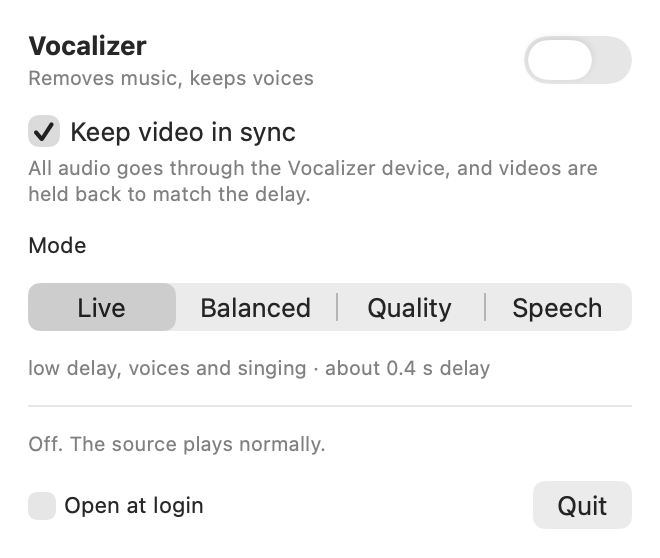
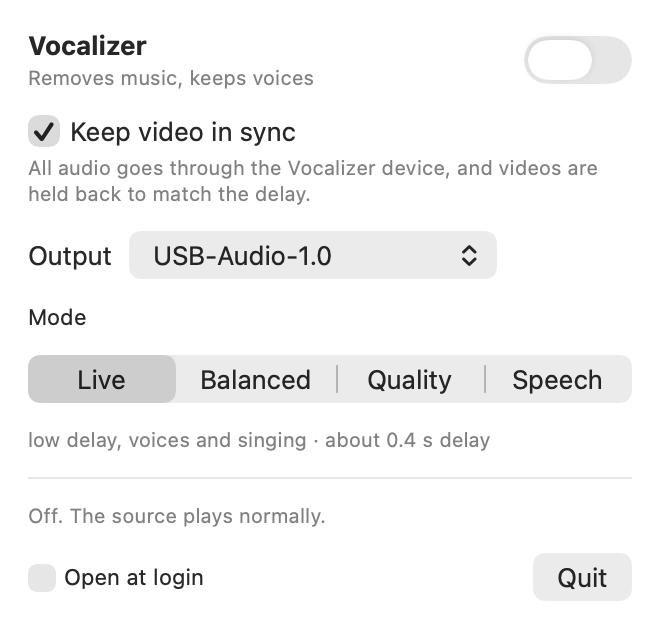
Follow headphones: new outputs take over, unplug goes back, device shows the real output
- the Vocalizer device's name is set by the app ('vnam' property), e.g. 'Vocalizer (External Headphones)',
  so Control Center shows where the sound really goes
- plugging in an output (headphones, AirPods, USB) moves the sound to it; unplugging returns to the
  previous output still connected
- Output picker in the menu

diff --git a/Sources/VocalizerMac/AppModel.swift b/Sources/VocalizerMac/AppModel.swift
@@ -205,13 +205,63 @@ final class AppModel: ObservableObject {
         engine.outputGain = (hw ? 1 : powf(vol, 3)) * (muted && !hwMute ? 0 : 1)
     }
 
+    /// Output devices seen so far (to tell "plugged in" from "unplugged"), and where we played before.
+    private var knownOutputUIDs = Set(AudioProcesses.realOutputs().map(\.uid))
+    private var outputHistory: [String] = []
+
+    /// Plugging in headphones / connecting AirPods moves the sound to them, like macOS does; unplugging
+    /// goes back to the previous output that is still there.
     private func devicesChanged() {
-        guard enabled, syncActive, let uid = activeRealUID else { return }
-        if AudioProcesses.device(uid: uid) == nil {
-            NSLog("Vocalizer: output \(uid) disappeared, moving to the next one")
-            realOutputUID = nil
+        let outputs = AudioProcesses.realOutputs()
+        let current = Set(outputs.map(\.uid))
+        let added = outputs.filter { !knownOutputUIDs.contains($0.uid) }
+        knownOutputUIDs = current
+        refreshOutputs()
+        guard enabled, syncActive else { return }
+        if let new = added.last {
+            NSLog("Vocalizer: \(new.name) connected, playing there")
+            choose(output: new.uid)
+        } else if let uid = activeRealUID, !current.contains(uid) {
+            while let previous = outputHistory.popLast() {
+                if current.contains(previous) { realOutputUID = previous; break }
+            }
+            if let uid = realOutputUID, !current.contains(uid) { realOutputUID = nil }
+            NSLog("Vocalizer: output \(uid) disappeared, back to \(realOutputUID ?? "default")")
             apply()
         }
+    }
+
+    // MARK: output picker
+
+    @Published private(set) var outputs: [OutputChoice] = []
+    @Published private(set) var currentOutputUID: String?
+    struct OutputChoice: Identifiable, Hashable { let id: String; let name: String }
+
+    func refreshOutputs() {
+        let list = AudioProcesses.realOutputs().map { OutputChoice(id: $0.uid, name: $0.name) }
+        if list != outputs { outputs = list }
+        if syncActive && enabled {
+            currentOutputUID = activeRealUID
+        } else if let d = try? AudioProcesses.defaultOutputDevice(), let uid = AudioProcesses.uid(of: d),
+                  !uid.lowercased().hasPrefix("vocalizer") {
+            currentOutputUID = uid
+        } else {
+            currentOutputUID = realOutputUID
+        }
+    }
+
+    /// Plays on this output (sync: our real output; otherwise the system default).
+    func choose(output uid: String) {
+        guard let dev = AudioProcesses.device(uid: uid) else { return }
+        if enabled && syncActive {
+            guard uid != activeRealUID else { return }
+            realOutputUID = uid
+            apply()
+        } else {
+            setDefaultOutput(dev)
+            realOutputUID = uid
+        }
+        currentOutputUID = uid
     }
 
     private func installSignalHandlers() {
@@ -242,11 +292,13 @@ final class AppModel: ObservableObject {
         let vocalizer = AudioProcesses.vocalizerDevice()
         if let d = try? AudioProcesses.defaultOutputDevice(), d != vocalizer { return d }
         if let uid = realOutputUID, let d = AudioProcesses.device(uid: uid) { return d }
-        return AudioProcesses.devices().first { $0 != vocalizer && AudioProcesses.hasOutput($0)
-            && !(AudioProcesses.uid(of: $0) ?? "").lowercased().hasPrefix("vocalizer") }
+        let outputs = AudioProcesses.realOutputs()
+        // Prefer the Mac's own speakers/headphones over anything else.
+        return (outputs.first { $0.uid.contains("BuiltIn") } ?? outputs.first)?.id
     }
 
     private func restoreRealOutput() {
+        AudioProcesses.setVocalizerName("Vocalizer")
         guard let v = AudioProcesses.vocalizerDevice(), (try? AudioProcesses.defaultOutputDevice()) == v,
               let real = realOutput() else { return }
         setDefaultOutput(real)
@@ -296,9 +348,11 @@ final class AppModel: ObservableObject {
 
     private func apply() {
         driverInstalled = AudioProcesses.vocalizerDevice() != nil
+        defer { refreshOutputs() }
         guard enabled else {
             engine.stop()
             restoreRealOutput()
+            AudioProcesses.setVocalizerName("Vocalizer")
             reportedLatencyMs = 0
             status = ready ? "Off" : status
             stats = engine.stats
@@ -311,7 +365,13 @@ final class AppModel: ObservableObject {
             if syncActive {
                 guard let real = realOutput() else { throw CAError(-1, "no output device to play on") }
                 realOutputUID = AudioProcesses.uid(of: real)
+                if let old = activeRealUID, old != realOutputUID {
+                    outputHistory.removeAll { $0 == old }
+                    outputHistory.append(old)
+                }
                 activeRealUID = realOutputUID
+                // Control Center / Sound settings show where the sound really goes.
+                AudioProcesses.setVocalizerName("Vocalizer (\(AudioProcesses.name(of: real) ?? "speakers"))")
                 mirrorVolumeFromReal(real)
                 // Sync mode: latency is hidden from video, so buffer generously (no dropouts).
                 let wasRouted = (try? AudioProcesses.defaultOutputDevice()) == AudioProcesses.vocalizerDevice()

diff --git a/Sources/VocalizerCore/AudioProcesses.swift b/Sources/VocalizerCore/AudioProcesses.swift
@@ -184,6 +184,22 @@ public enum AudioProcesses {
         return AudioObjectHasProperty(device, &addr) && AudioObjectSetPropertyData(device, &addr, 0, nil, 4, &m) == noErr
     }
 
+    /// Sets the name the Vocalizer device shows in Control Center / Sound settings.
+    public static func setVocalizerName(_ name: String) {
+        guard let dev = vocalizerDevice() else { return }
+        var addr = CA.address(0x766E_616D) // 'vnam'
+        var str = name as CFString
+        AudioObjectSetPropertyData(dev, &addr, 0, nil, UInt32(MemoryLayout<CFString>.size), &str)
+    }
+
+    /// Real output devices the user can play on (not the Vocalizer device, not our private aggregates).
+    public static func realOutputs() -> [(id: AudioDeviceID, uid: String, name: String)] {
+        devices().compactMap { d in
+            guard hasOutput(d), let uid = uid(of: d), !uid.lowercased().hasPrefix("vocalizer") else { return nil }
+            return (d, uid, name(of: d) ?? uid)
+        }
+    }
+
     public static func outputLatencyFrames(_ device: AudioDeviceID) -> UInt32 {
         (try? CA.get(device, kAudioDevicePropertyLatency, UInt32(0), scope: kAudioObjectPropertyScopeOutput)) ?? 0
     }

diff --git a/Sources/VocalizerMac/VocalizerApp.swift b/Sources/VocalizerMac/VocalizerApp.swift
@@ -55,6 +55,12 @@ struct MenuView: View {
                 .onAppear { model.refreshSources() }
             }
 
+            Picker("Output", selection: Binding(get: { model.currentOutputUID ?? "" },
+                                                set: { model.choose(output: $0) })) {
+                ForEach(model.outputs) { o in Text(o.name).tag(o.id) }
+            }
+            .onAppear { model.refreshOutputs() }
+
             Text("Mode").font(.subheadline)
             Picker("Mode", selection: $model.mode) {
                 ForEach(model.availableModes) { m in Text(m.title).tag(m) }

diff --git a/Driver/patch.py b/Driver/patch.py
@@ -16,9 +16,11 @@ header = '''// Vocalizer driver: generated by Driver/patch.py from BlackHole.c. 
 #define kManufacturer_Name "Vocalizer"
 #define kNumber_Of_Channels 2
 #define kVocalizer_LatencySelector 'vlat'
+#define kVocalizer_NameSelector 'vnam'
 '''
 s = header + s
 s = s.replace('#pragma mark Prototypes', '''static UInt32 gVocalizer_Latency = 0; // frames, set by the Vocalizer app
+static CFStringRef gVocalizer_Name = NULL; // display name, e.g. "Vocalizer (External Headphones)", set by the app
 
 #pragma mark Prototypes''', 1)
 assert 'gVocalizer_Latency = 0' in s
@@ -31,11 +33,13 @@ def inject(func, code):
     s = s[:k] + '\n' + code + s[k:]
 
 inject('static Boolean\tBlackHole_HasDeviceProperty(AudioServerPlugInDriverRef inDriver, AudioObjectID inObjectID, pid_t inClientProcessID, const AudioObjectPropertyAddress* inAddress)\n{', '''		case kVocalizer_LatencySelector:
+		case kVocalizer_NameSelector:
 		case kAudioObjectPropertyCustomPropertyInfoList:
 			theAnswer = true;
 			break;
 ''')
 inject('static OSStatus\tBlackHole_IsDevicePropertySettable(AudioServerPlugInDriverRef inDriver, AudioObjectID inObjectID, pid_t inClientProcessID, const AudioObjectPropertyAddress* inAddress, Boolean* outIsSettable)\n{', '''		case kVocalizer_LatencySelector:
+		case kVocalizer_NameSelector:
 			*outIsSettable = true;
 			break;
 		case kAudioObjectPropertyCustomPropertyInfoList:
@@ -43,10 +47,11 @@ inject('static OSStatus\tBlackHole_IsDevicePropertySettable(AudioServerPlugInDri
 			break;
 ''')
 inject('static OSStatus\tBlackHole_GetDevicePropertyDataSize(AudioServerPlugInDriverRef inDriver', '''		case kVocalizer_LatencySelector:
+		case kVocalizer_NameSelector:
 			*outDataSize = sizeof(CFPropertyListRef);
 			break;
 		case kAudioObjectPropertyCustomPropertyInfoList:
-			*outDataSize = sizeof(AudioServerPlugInCustomPropertyInfo);
+			*outDataSize = 2 * sizeof(AudioServerPlugInCustomPropertyInfo);
 			break;
 ''')
 inject('static OSStatus\tBlackHole_GetDevicePropertyData(AudioServerPlugInDriverRef inDriver', '''		case kVocalizer_LatencySelector:
@@ -57,18 +62,50 @@ inject('static OSStatus\tBlackHole_GetDevicePropertyData(AudioServerPlugInDriver
 			*outDataSize = sizeof(CFPropertyListRef);
 			break;
 		}
+		case kVocalizer_NameSelector:
+		{
+			FailWithAction(inDataSize < sizeof(CFPropertyListRef), theAnswer = kAudioHardwareBadPropertySizeError, Done, "Vocalizer: not enough space for vnam");
+			pthread_mutex_lock(&gPlugIn_StateMutex);
+			*((CFPropertyListRef*)outData) = gVocalizer_Name ? CFStringCreateCopy(NULL, gVocalizer_Name) : CFSTR(kDevice_Name);
+			pthread_mutex_unlock(&gPlugIn_StateMutex);
+			*outDataSize = sizeof(CFPropertyListRef);
+			break;
+		}
 		case kAudioObjectPropertyCustomPropertyInfoList:
 		{
-			FailWithAction(inDataSize < sizeof(AudioServerPlugInCustomPropertyInfo), theAnswer = kAudioHardwareBadPropertySizeError, Done, "Vocalizer: not enough space for custom property info");
+			UInt32 theCount = inDataSize / sizeof(AudioServerPlugInCustomPropertyInfo);
+			if(theCount > 2) theCount = 2;
 			AudioServerPlugInCustomPropertyInfo* theInfo = (AudioServerPlugInCustomPropertyInfo*)outData;
-			theInfo->mSelector = kVocalizer_LatencySelector;
-			theInfo->mPropertyDataType = kAudioServerPlugInCustomPropertyDataTypeCFPropertyList;
-			theInfo->mQualifierDataType = kAudioServerPlugInCustomPropertyDataTypeNone;
-			*outDataSize = sizeof(AudioServerPlugInCustomPropertyInfo);
+			AudioObjectPropertySelector theSelectors[2] = { kVocalizer_LatencySelector, kVocalizer_NameSelector };
+			for(UInt32 i = 0; i < theCount; ++i)
+			{
+				theInfo[i].mSelector = theSelectors[i];
+				theInfo[i].mPropertyDataType = kAudioServerPlugInCustomPropertyDataTypeCFPropertyList;
+				theInfo[i].mQualifierDataType = kAudioServerPlugInCustomPropertyDataTypeNone;
+			}
+			*outDataSize = theCount * sizeof(AudioServerPlugInCustomPropertyInfo);
 			break;
 		}
 ''')
-inject('static OSStatus\tBlackHole_SetDevicePropertyData(AudioServerPlugInDriverRef inDriver', '''		case kVocalizer_LatencySelector:
+inject('static OSStatus\tBlackHole_SetDevicePropertyData(AudioServerPlugInDriverRef inDriver', '''		case kVocalizer_NameSelector:
+		{
+			FailWithAction(inDataSize < sizeof(CFPropertyListRef), theAnswer = kAudioHardwareBadPropertySizeError, Done, "Vocalizer: wrong size for vnam");
+			CFStringRef theName = *((const CFStringRef*)inData);
+			FailWithAction(theName == NULL || CFGetTypeID(theName) != CFStringGetTypeID(), theAnswer = kAudioHardwareIllegalOperationError, Done, "Vocalizer: vnam must be a string");
+			pthread_mutex_lock(&gPlugIn_StateMutex);
+			if(gVocalizer_Name != NULL) CFRelease(gVocalizer_Name);
+			gVocalizer_Name = CFStringCreateCopy(NULL, theName);
+			pthread_mutex_unlock(&gPlugIn_StateMutex);
+			*outNumberPropertiesChanged = 2;
+			outChangedAddresses[0].mSelector = kAudioObjectPropertyName;
+			outChangedAddresses[0].mScope = kAudioObjectPropertyScopeGlobal;
+			outChangedAddresses[0].mElement = kAudioObjectPropertyElementMain;
+			outChangedAddresses[1].mSelector = kVocalizer_NameSelector;
+			outChangedAddresses[1].mScope = kAudioObjectPropertyScopeGlobal;
+			outChangedAddresses[1].mElement = kAudioObjectPropertyElementMain;
+			break;
+		}
+		case kVocalizer_LatencySelector:
 		{
 			FailWithAction(inDataSize < sizeof(CFPropertyListRef), theAnswer = kAudioHardwareBadPropertySizeError, Done, "Vocalizer: wrong size for vlat");
 			CFNumberRef theNumber = *((const CFNumberRef*)inData);
@@ -94,5 +131,11 @@ j = s.index('case kAudioDevicePropertyLatency:', i)
 k = s.index('*((UInt32*)outData) = 0;', j)
 assert k - j < 600
 s = s[:k] + '*((UInt32*)outData) = (inAddress->mScope == kAudioObjectPropertyScopeOutput) ? gVocalizer_Latency : 0;' + s[k + len('*((UInt32*)outData) = 0;'):]
+# Device name = the app's display name when set ("Vocalizer (External Headphones)").
+i = s.index('static OSStatus\tBlackHole_GetDevicePropertyData(AudioServerPlugInDriverRef inDriver')
+k = s.index('*((CFStringRef*)outData) = get_device_name();', i)
+s = s[:k] + '''pthread_mutex_lock(&gPlugIn_StateMutex);
+                    *((CFStringRef*)outData) = gVocalizer_Name ? CFStringCreateCopy(NULL, gVocalizer_Name) : get_device_name();
+                    pthread_mutex_unlock(&gPlugIn_StateMutex);''' + s[k + len('*((CFStringRef*)outData) = get_device_name();'):]
 open(dst, 'w').write(s)
 print("patched")

diff --git a/README.md b/README.md
@@ -54,6 +54,9 @@ github.com/0xArx/vocalizer-mac". It follows [AGENTS.md](AGENTS.md). There is als
 - **Keep video in sync** (on by default): all sound goes through the *Vocalizer* audio device, which tells video
   players the delay, so the picture waits for the voice. Your speakers or headphones stay the real output, the volume
   keys keep working, and your speakers come back when you switch it off or quit.
+- **Headphones / AirPods:** plug them in and the sound moves there (unplug and it goes back). The output list in
+  Control Center shows **Vocalizer (your headphones)** so you can see where the sound really goes, and the
+  **Output** picker in the Vocalizer menu switches it directly.
 - With sync off, you can pick a single app to filter (Source).
 - **Open at login** is in the menu; Vocalizer remembers whether it was on.
 - Things that can't wait (games, live calls) still hear the delay. Use Speech mode for calls.
